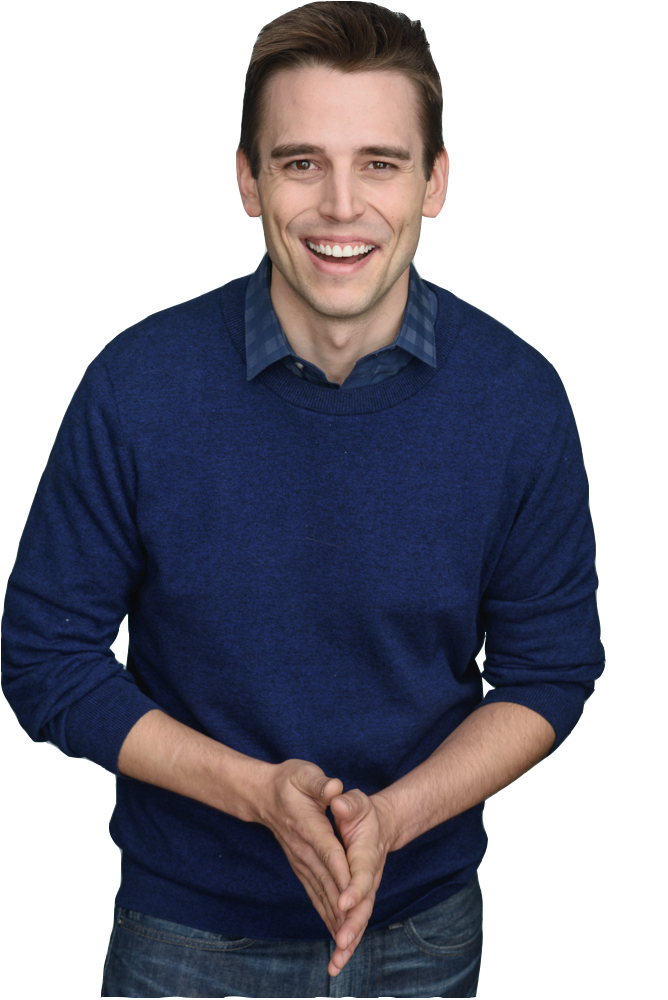
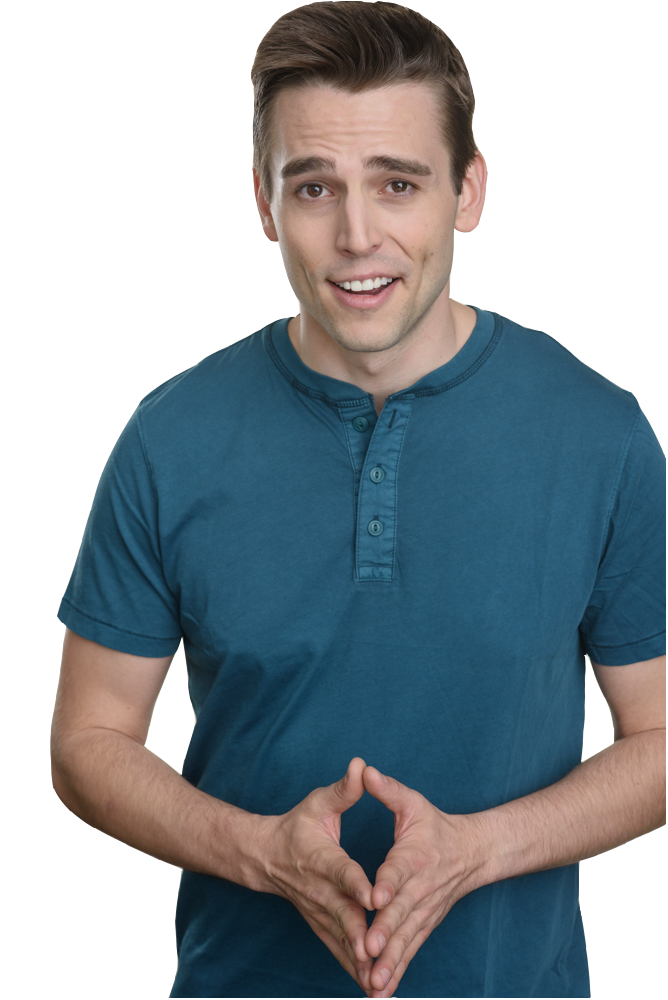
added photo to quote page, updated file names to reflect change, changed brutus' link to reflect live site

diff --git a/public/stylesheets/style.min.css b/public/stylesheets/style.min.css
@@ -1,1 +1,1 @@
-*{margin:0;padding:0;box-sizing:border-box}body{font:14px 'Montserrat', sans-serif}a{color:#555}p{font-weight:bold}.section{position:relative;overflow:hidden;padding-top:80px}nav{background:transparent;box-shadow:none;top:0}nav .nav-wrapper .container{width:100%}nav ul a{font-size:14px;text-transform:uppercase;font-weight:bold}nav ul a:hover{background-color:transparent;color:#f3997b}nav ul .selected{border-bottom:2px solid white}@media (max-width: 992px){nav .social-media{position:absolute;text-align:center}}nav .social-media img{box-sizing:border-box;width:13%;display:inline;padding:5px;margin:15px 0 0 0}@media (max-width: 992px){nav .social-media img{width:18%}}@media (max-width: 761px){nav .social-media img{width:16%}}@media (max-width: 600px){nav .social-media img{width:8%}}@media (max-width: 375px){nav .social-media img{width:10%}}.navbar-fixed{position:fixed;right:0;left:0;z-index:1030}.side-nav{width:100% !important;background-color:#f3997b}.side-nav li a{font-size:40px;line-height:70px;padding:50px 32px}#footer{background-color:#303030;min-height:100px}.scroll-down{position:absolute;left:calc(50% - 25px);right:auto;bottom:10px;z-index:99;font-size:14px;text-align:center;text-transform:uppercase;color:#fff;-webkit-transition:color .314s ease;transition:color .314s ease}#home{min-height:950px;background:#1e2230 url(../images/home-background.jpg) no-repeat center bottom}@media (min-width: 769px) and (max-width: 992px){#home{min-height:50vh}}@media (min-width: 674px) and (max-width: 768px){#home{min-height:75vh}}@media (max-width: 673px){#home{min-height:50vh}}@media (max-width: 375px){#home{min-height:45vh}}#home .jonathan-main{color:#fff}#home .jonathan-main h1{margin-top:50px;font-size:5vw}#home .jonathan-main h3{font-size:3vw}#home .jonathan-main h5{font-size:1.5vw}#home .jonathan-main hr{border:3px solid #fff;width:10vw;margin:0 auto}#home .home-img{padding-top:65px;min-height:500px;display:flex;align-items:center;justify-content:center}#home .home-img img{border:5px solid #fff;display:block;margin:0 auto;width:60%}#home .scroll-down{color:#fff}#home .scroll-down a{color:#fff}#home .scroll-down i{display:block}#home .ability-section{padding:150px 20px;margin:50px auto;left:0;right:0;position:absolute;background:#E63215;min-height:600px;width:75%;border:10px solid #000}#home .ability-section img{width:50%;border:10px solid #000}#home .ability-section span{font-size:24px;color:#fff;text-shadow:-1px -1px 0 #000, 1px -1px 0 #000, -1px 1px 0 #000, 1px 1px 0 #000}#bio{background:#F8F8F8;min-height:900px;color:#555}@media (min-width: 769px) and (max-width: 992px){#bio{min-height:50vh}}@media (min-width: 674px) and (max-width: 768px){#bio{min-height:75vh}}@media (max-width: 673px){#bio{min-height:50vh}}@media (max-width: 375px){#bio{min-height:45vh}}#bio h1{color:#555}#bio p{font-size:18px;line-height:1.5}#bio p span{font-weight:bold}#bio img{position:absolute;width:29vw;left:150px;bottom:-4px}@media (max-width: 1700px) and (min-width: 1601px){#bio img{width:35vw;left:150px}}@media (max-width: 1600px) and (min-width: 1581px){#bio img{width:32vw;left:150px}}@media (max-width: 1580px){#bio img{width:38vw;left:60px}}#bio .scroll-down{color:#555}#bio .scroll-down a{color:#555}#bio .scroll-down i{display:block}#social{background:#add3ce;min-height:740px}#social p{font-size:18px;line-height:1.5;color:#555}#social a{text-decoration:none}#social a span{color:#F25951}@media (min-width: 769px) and (max-width: 992px){#social{min-height:50vh}}@media (min-width: 674px) and (max-width: 768px){#social{min-height:75vh}}@media (max-width: 673px){#social{min-height:50vh}}@media (max-width: 375px){#social{min-height:45vh}}#social .scroll-down{color:#fff}#social .scroll-down a{color:#fff}#social .scroll-down i{display:block}#actor{background:#2f2f2f url(../images/host-background.jpg) no-repeat center top;background-size:cover;min-height:800px}@media (max-width: 992px){#actor{background-image:none;background-color:#2f2f2f}}@media (min-width: 769px) and (max-width: 992px){#actor{min-height:50vh}}@media (min-width: 674px) and (max-width: 768px){#actor{min-height:75vh}}@media (max-width: 673px){#actor{min-height:50vh}}@media (max-width: 375px){#actor{min-height:45vh}}#actor .actor-background{width:30%}#actor h3{color:#fff}#actor p{color:white;font-size:18px;line-height:1.5}#actor p span{display:inline-block;padding:0 0 0;font-weight:bold}#actor img{position:absolute;left:132px;bottom:-7px}@media (max-width: 1219px) and (min-width: 1024px){#actor img{width:40% !important;left:-21px}}@media (max-width: 1340px) and (min-width: 1220px){#actor img{position:absolute;left:109px}}@media (max-width: 1440px) and (min-width: 1341px){#actor img{position:absolute;left:117px}}@media (max-width: 1119px){#actor img{right:200%}}@media (max-width: 1201px){#actor img{width:40% !important;left:-22px}}@media (max-width: 992px){#actor img{display:none}}#actor .scroll-down{color:#fff}#actor .scroll-down a{color:#fff}#actor .scroll-down i{display:block}#actor-portfolio{background:#2f2f2f url(../images/actor-background-flipped.jpg) no-repeat center top}#actor-portfolio h2,#actor-portfolio h3{color:#fff}#actor-portfolio .carousel-slider{min-height:200px}#actor-portfolio .carousel-slider img{position:static}#actor-portfolio .carousel-slider .indicators .indicator-item{display:none}#actor-portfolio .hide-video-container{z-index:-1}#actor-portfolio .resume-list{line-height:1.5}#actor-portfolio .special-skill-list{border-top:0 !important}#actor-portfolio .collapsible{border-top:none;border-left:none;border-right:none;border-bottom:none;box-shadow:none}#actor-portfolio .collapsible-header{color:#fff;background-color:inherit;border-top:1px solid #ddd;border-bottom:none}#actor-portfolio .collapsible-header i{color:#3091ce}#actor-portfolio .collapsible-header-end{border-bottom:1px solid #ddd}#actor-portfolio .collapsible-body{color:#fff;border-top:1px solid #ddd}#actor-portfolio .casting-logos-flex{display:flex;justify-content:center;margin-bottom:50px}#actor-portfolio .casting-logos-flex .casting-logos img{width:45px;margin:0 10px;display:inline;position:static}@media (max-width: 375px){#actor-portfolio .casting-logos-flex .casting-logos img{width:41px}}#host{background:#f7bdaa url(../images/actor-background.jpg) no-repeat center top;background-size:cover;min-height:740px;color:#555}@media (min-width: 769px) and (max-width: 992px){#host{min-height:50vh}}@media (min-width: 674px) and (max-width: 768px){#host{min-height:75vh}}@media (max-width: 673px){#host{min-height:50vh}}@media (max-width: 375px){#host{min-height:45vh}}#host h1{color:#555}#host .carousel{width:550px;height:435px !important}#host .carousel img{width:50%}#host .carousel .indicators .indicator-item{display:none}#host p{font-size:18px;line-height:1.5}#host p span{font-weight:bold}#host .credits{margin-top:25px}#host .credits .collapsible{border-top:1px solid #555;border-left:0;border-right:0;box-shadow:none;margin:40px 0}#host .credits .collapsible-header{background-color:transparent;border-bottom:1px solid #555;text-align:center}#host .credits .collapsible-body{border-bottom:1px solid #555}#host #microman{position:absolute;margin-left:69px;left:-20px;bottom:-3px;width:29%}@media (max-width: 992px){#host #microman{display:none}}#host #microman-2{position:absolute;margin-right:69px;right:-30px;bottom:-66px;width:19%}@media (max-width: 992px){#host #microman-2{display:none}}#host .scroll-down{color:#555}#host .scroll-down a{color:#555}#host .scroll-down i{display:block}#production{background:#e5e5e5 url(../images/production-background.jpg) no-repeat center top;background-size:cover;min-height:740px}@media (min-width: 769px) and (max-width: 992px){#production{min-height:50vh}}@media (min-width: 674px) and (max-width: 768px){#production{min-height:75vh}}@media (max-width: 673px){#production{min-height:50vh}}@media (max-width: 375px){#production{min-height:45vh}}#production .photo-element{position:absolute}#production #camera{top:130px;right:0;z-index:10}@media (min-width: 1024px){#production #camera{right:-155px}}@media (max-width: 992px){#production #camera{display:none}}#production #cable{right:10%;bottom:-265px;z-index:11}@media (max-width: 992px){#production #cable{display:none}}#production #microphone{bottom:-175px;left:-100px;z-index:8}@media (min-width: 1024px){#production #microphone{left:-255px}}@media (max-width: 992px){#production #microphone{display:none}}#production .bmp-logo{width:55%;margin-bottom:25px;margin-top:65px}#production #bmp-bio p{padding:0 19px;color:#737373;font-size:18px;line-height:1.5}@media (max-width: 992px){#production #bmp-bio p{padding:0}}#production .clip-list li{font-family:'Fontdiner Swanky', cursive;position:relative;background-color:#3091ce;border:2px solid #737373;padding:20px 0;margin:0 0 10px;z-index:10;color:#fff;font-size:18px}#production .collapsible-header{background-color:inherit;border-top:1px solid #ddd}#production .collapsible-header i{color:#3091ce}#production #equipment-rental{padding:0 40px;color:#737373}#production #equipment-rental .equipment-list li{text-align:left;line-height:1.5}#production #bmp-contact{margin-top:30px;margin-bottom:50px;color:#737373}#production #bmp-contact p{font-size:18px}#production #bmp-contact a{color:#3091ce}#production .scroll-down{color:#555}#production .scroll-down a{color:#555}#production .scroll-down i{display:block}#quote{background-color:#D7D5E6;min-height:740px}@media (min-width: 769px) and (max-width: 992px){#quote{min-height:50vh}}@media (min-width: 674px) and (max-width: 768px){#quote{min-height:75vh}}@media (max-width: 673px){#quote{min-height:50vh}}@media (max-width: 375px){#quote{min-height:45vh}}#quote h1{color:#555}#quote img{width:25vw;position:absolute;bottom:-4px;right:90px}@media (max-width: 1700px) and (min-width: 1601px){#quote img{width:24vw;right:150px}}@media (max-width: 1600px) and (min-width: 1581px){#quote img{width:25vw;right:150px}}@media (max-width: 1580px){#quote img{width:28vw;right:170px}}@media (max-width: 992px){#quote img{display:none}}#quote .quote-paragraph{line-height:2.0;text-align:left;padding:0 40px;font-size:2.5vw;line-height:1.5;color:#555}#quote .quote-paragraph span{font-weight:100}#quote .quote-paragraph span .quote{margin-right:30px}#quote .scroll-down{color:#555}#quote .scroll-down a{color:#555}#quote .scroll-down i{display:block}#contact{background:#9a9a9a;min-height:925px}@media (min-width: 769px) and (max-width: 992px){#contact{min-height:50vh}}@media (min-width: 674px) and (max-width: 768px){#contact{min-height:75vh}}@media (max-width: 673px){#contact{min-height:50vh}}@media (max-width: 375px){#contact{min-height:45vh}}#contact h5{color:#434343;font-weight:bold}#contact img{width:20vw;margin:0 auto;display:block}#contact .contact-img{width:32%;position:absolute;bottom:-3px;left:-29px}@media (max-width: 1770) and (min-width: 1561px){#contact .contact-img{width:35%}}@media (max-width: 1560) and (min-width: 1388px){#contact .contact-img{width:39%}}@media (max-width: 1024px) and (min-width: 993px){#contact .contact-img{width:45%}}@media (max-width: 992px){#contact .contact-img{display:none}}#contact .contact-header{font-size:9em;color:#434343}@media (min-width: 769px){#contact .contact-header{font-size:6.5em}}@media (max-width: 768px){#contact .contact-header{font-size:6em}}@media (max-width: 505px){#contact .contact-header{font-size:3.5em}}@media (max-width: 425px){#contact .contact-header{font-size:3em}}#contact .contact-items .commercial-logo{border:4px solid #555}#contact .contact-items i{color:#434343;font-size:4em}#contact .contact-items span{font-size:18px;color:#fff;padding-top:10px;display:block}#contact input:not([type]),#contact input[type=text],#contact input[type=password],#contact input[type=email],#contact input[type=url],#contact input[type=time],#contact input[type=date],#contact input[type=datetime],#contact input[type=datetime-local],#contact input[type=tel],#contact input[type=number],#contact input[type=search],#contact textarea.materialize-textarea{border-bottom:1px solid #434343}#contact .input-field label{color:#434343}#contact input::-webkit-input-placeholder{color:#434343 !important}#contact input:-moz-placeholder{color:#434343 !important}#contact input::-moz-placeholder{color:#434343 !important}#contact input:-ms-input-placeholder{color:#434343 !important}#contact .input-field input[type=text]:focus+label{color:#555}#contact .input-field input[type=text]:focus{border-bottom:1px solid #555;box-shadow:0 1px 0 0 #555}#contact .scroll-down{color:#555}#contact .scroll-down a{color:#555}#contact .scroll-down i{display:block}#featured-modal{height:800px}#featured-modal .carousel.carousel-slider{min-height:690px}#featured-modal .carousel.carousel-slider .video-container{margin:45px 0}#featured-modal .carousel .indicators .indicator-item.active{background-color:#3091ce !important}#featured-modal .carousel .indicators .indicator-item{background-color:#b9b9b9 !important}#seasonOne-modal,#seasonTwo-modal{height:500px}#seasonOne-modal .carousel.carousel-slider,#seasonTwo-modal .carousel.carousel-slider{min-height:380px}#seasonOne-modal .carousel.carousel-slider .video-container,#seasonTwo-modal .carousel.carousel-slider .video-container{margin:45px 0}#seasonOne-modal .carousel .indicators .indicator-item.active,#seasonTwo-modal .carousel .indicators .indicator-item.active{background-color:#3091ce !important}#seasonOne-modal .carousel .indicators .indicator-item,#seasonTwo-modal .carousel .indicators .indicator-item{background-color:#b9b9b9 !important}#equipment-modal .bmp-logo{display:block;width:45%;margin:25px auto}.modal i{color:#3091ce}.flex-container{display:flex;justify-content:center}
+*{margin:0;padding:0;box-sizing:border-box}body{font:14px 'Montserrat', sans-serif}a{color:#555}p{font-weight:bold}.section{position:relative;overflow:hidden;padding-top:80px}nav{background:transparent;box-shadow:none;top:0}nav .nav-wrapper .container{width:100%}nav ul a{font-size:14px;text-transform:uppercase;font-weight:bold}nav ul a:hover{background-color:transparent;color:#f3997b}nav ul .selected{border-bottom:2px solid white}@media (max-width: 992px){nav .social-media{position:absolute;text-align:center}}nav .social-media img{box-sizing:border-box;width:13%;display:inline;padding:5px;margin:15px 0 0 0}@media (max-width: 992px){nav .social-media img{width:18%}}@media (max-width: 761px){nav .social-media img{width:16%}}@media (max-width: 600px){nav .social-media img{width:8%}}@media (max-width: 375px){nav .social-media img{width:10%}}.navbar-fixed{position:fixed;right:0;left:0;z-index:1030}.side-nav{width:100% !important;background-color:#f3997b}.side-nav li a{font-size:40px;line-height:70px;padding:50px 32px}#footer{background-color:#303030;min-height:100px}.scroll-down{position:absolute;left:calc(50% - 25px);right:auto;bottom:10px;z-index:99;font-size:14px;text-align:center;text-transform:uppercase;color:#fff;-webkit-transition:color .314s ease;transition:color .314s ease}#home{min-height:950px;background:#1e2230 url(../images/home-background.jpg) no-repeat center bottom}@media (min-width: 769px) and (max-width: 992px){#home{min-height:50vh}}@media (min-width: 674px) and (max-width: 768px){#home{min-height:75vh}}@media (max-width: 673px){#home{min-height:50vh}}@media (max-width: 375px){#home{min-height:45vh}}#home .jonathan-main{color:#fff}#home .jonathan-main h1{margin-top:50px;font-size:5vw}#home .jonathan-main h3{font-size:3vw}#home .jonathan-main h5{font-size:1.5vw}#home .jonathan-main hr{border:3px solid #fff;width:10vw;margin:0 auto}#home .home-img{padding-top:65px;min-height:500px;display:flex;align-items:center;justify-content:center}#home .home-img img{border:5px solid #fff;display:block;margin:0 auto;width:60%}#home .scroll-down{color:#fff}#home .scroll-down a{color:#fff}#home .scroll-down i{display:block}#home .ability-section{padding:150px 20px;margin:50px auto;left:0;right:0;position:absolute;background:#E63215;min-height:600px;width:75%;border:10px solid #000}#home .ability-section img{width:50%;border:10px solid #000}#home .ability-section span{font-size:24px;color:#fff;text-shadow:-1px -1px 0 #000, 1px -1px 0 #000, -1px 1px 0 #000, 1px 1px 0 #000}#bio{background:#F8F8F8;min-height:900px;color:#555}@media (min-width: 769px) and (max-width: 992px){#bio{min-height:50vh}}@media (min-width: 674px) and (max-width: 768px){#bio{min-height:75vh}}@media (max-width: 673px){#bio{min-height:50vh}}@media (max-width: 375px){#bio{min-height:45vh}}#bio h1{color:#555}#bio p{font-size:18px;line-height:1.5}#bio p span{font-weight:bold}#bio img{position:absolute;width:29vw;left:150px;bottom:-4px}@media (max-width: 1700px) and (min-width: 1601px){#bio img{width:35vw;left:150px}}@media (max-width: 1600px) and (min-width: 1581px){#bio img{width:32vw;left:150px}}@media (max-width: 1580px){#bio img{width:38vw;left:60px}}#bio .scroll-down{color:#555}#bio .scroll-down a{color:#555}#bio .scroll-down i{display:block}#social{background:#add3ce;min-height:740px}#social p{font-size:18px;line-height:1.5;color:#555}#social a{text-decoration:none}#social a span{color:#F25951}@media (min-width: 769px) and (max-width: 992px){#social{min-height:50vh}}@media (min-width: 674px) and (max-width: 768px){#social{min-height:75vh}}@media (max-width: 673px){#social{min-height:50vh}}@media (max-width: 375px){#social{min-height:45vh}}#social .scroll-down{color:#fff}#social .scroll-down a{color:#fff}#social .scroll-down i{display:block}#actor{background:#2f2f2f url(../images/host-background.jpg) no-repeat center top;background-size:cover;min-height:800px}@media (max-width: 992px){#actor{background-image:none;background-color:#2f2f2f}}@media (min-width: 769px) and (max-width: 992px){#actor{min-height:50vh}}@media (min-width: 674px) and (max-width: 768px){#actor{min-height:75vh}}@media (max-width: 673px){#actor{min-height:50vh}}@media (max-width: 375px){#actor{min-height:45vh}}#actor .actor-background{width:30%}#actor h3{color:#fff}#actor p{color:white;font-size:18px;line-height:1.5}#actor p span{display:inline-block;padding:0 0 0;font-weight:bold}#actor img{position:absolute;left:132px;bottom:-7px}@media (max-width: 1219px) and (min-width: 1024px){#actor img{width:40% !important;left:-21px}}@media (max-width: 1340px) and (min-width: 1220px){#actor img{position:absolute;left:109px}}@media (max-width: 1440px) and (min-width: 1341px){#actor img{position:absolute;left:117px}}@media (max-width: 1119px){#actor img{right:200%}}@media (max-width: 1201px){#actor img{width:40% !important;left:-22px}}@media (max-width: 992px){#actor img{display:none}}#actor .scroll-down{color:#fff}#actor .scroll-down a{color:#fff}#actor .scroll-down i{display:block}#actor-portfolio{background:#2f2f2f url(../images/actor-background-flipped.jpg) no-repeat center top}#actor-portfolio h2,#actor-portfolio h3{color:#fff}#actor-portfolio .carousel-slider{min-height:200px}#actor-portfolio .carousel-slider img{position:static}#actor-portfolio .carousel-slider .indicators .indicator-item{display:none}#actor-portfolio .hide-video-container{z-index:-1}#actor-portfolio .resume-list{line-height:1.5}#actor-portfolio .special-skill-list{border-top:0 !important}#actor-portfolio .collapsible{border-top:none;border-left:none;border-right:none;border-bottom:none;box-shadow:none}#actor-portfolio .collapsible-header{color:#fff;background-color:inherit;border-top:1px solid #ddd;border-bottom:none}#actor-portfolio .collapsible-header i{color:#3091ce}#actor-portfolio .collapsible-header-end{border-bottom:1px solid #ddd}#actor-portfolio .collapsible-body{color:#fff;border-top:1px solid #ddd}#actor-portfolio .casting-logos-flex{display:flex;justify-content:center;margin-bottom:50px}#actor-portfolio .casting-logos-flex .casting-logos img{width:45px;margin:0 10px;display:inline;position:static}@media (max-width: 375px){#actor-portfolio .casting-logos-flex .casting-logos img{width:41px}}#host{background:#f7bdaa url(../images/actor-background.jpg) no-repeat center top;background-size:cover;min-height:740px;color:#555}@media (min-width: 769px) and (max-width: 992px){#host{min-height:50vh}}@media (min-width: 674px) and (max-width: 768px){#host{min-height:75vh}}@media (max-width: 673px){#host{min-height:50vh}}@media (max-width: 375px){#host{min-height:45vh}}#host h1{color:#555}#host .carousel{width:550px;height:435px !important}#host .carousel img{width:50%}#host .carousel .indicators .indicator-item{display:none}#host p{font-size:18px;line-height:1.5}#host p span{font-weight:bold}#host .credits{margin-top:25px}#host .credits .collapsible{border-top:1px solid #555;border-left:0;border-right:0;box-shadow:none;margin:40px 0}#host .credits .collapsible-header{background-color:transparent;border-bottom:1px solid #555;text-align:center}#host .credits .collapsible-body{border-bottom:1px solid #555}#host #microman{position:absolute;margin-left:69px;left:-20px;bottom:-3px;width:29%}@media (max-width: 992px){#host #microman{display:none}}#host #microman-2{position:absolute;margin-right:69px;right:-30px;bottom:-66px;width:19%}@media (max-width: 992px){#host #microman-2{display:none}}#host .scroll-down{color:#555}#host .scroll-down a{color:#555}#host .scroll-down i{display:block}#production{background:#e5e5e5 url(../images/production-background.jpg) no-repeat center top;background-size:cover;min-height:740px}@media (min-width: 769px) and (max-width: 992px){#production{min-height:50vh}}@media (min-width: 674px) and (max-width: 768px){#production{min-height:75vh}}@media (max-width: 673px){#production{min-height:50vh}}@media (max-width: 375px){#production{min-height:45vh}}#production .photo-element{position:absolute}#production #camera{top:130px;right:0;z-index:10}@media (min-width: 1024px){#production #camera{right:-155px}}@media (max-width: 992px){#production #camera{display:none}}#production #cable{right:10%;bottom:-265px;z-index:11}@media (max-width: 992px){#production #cable{display:none}}#production #microphone{bottom:-175px;left:-100px;z-index:8}@media (min-width: 1024px){#production #microphone{left:-255px}}@media (max-width: 992px){#production #microphone{display:none}}#production .bmp-logo{width:55%;margin-bottom:25px;margin-top:65px}#production #bmp-bio p{padding:0 19px;color:#737373;font-size:18px;line-height:1.5}@media (max-width: 992px){#production #bmp-bio p{padding:0}}#production .clip-list li{font-family:'Fontdiner Swanky', cursive;position:relative;background-color:#3091ce;border:2px solid #737373;padding:20px 0;margin:0 0 10px;z-index:10;color:#fff;font-size:18px}#production .collapsible-header{background-color:inherit;border-top:1px solid #ddd}#production .collapsible-header i{color:#3091ce}#production #equipment-rental{padding:0 40px;color:#737373}#production #equipment-rental .equipment-list li{text-align:left;line-height:1.5}#production #bmp-contact{margin-top:30px;margin-bottom:50px;color:#737373}#production #bmp-contact p{font-size:18px}#production #bmp-contact a{color:#3091ce}#production .scroll-down{color:#555}#production .scroll-down a{color:#555}#production .scroll-down i{display:block}#quote{background-color:#D7D5E6;min-height:740px}@media (min-width: 769px) and (max-width: 992px){#quote{min-height:50vh}}@media (min-width: 674px) and (max-width: 768px){#quote{min-height:75vh}}@media (max-width: 673px){#quote{min-height:50vh}}@media (max-width: 375px){#quote{min-height:45vh}}#quote h1{color:#555}#quote img{width:25vw;position:absolute;bottom:-4px;right:0}@media (max-width: 1700px) and (min-width: 1601px){#quote img{width:24vw;right:150px}}@media (max-width: 1600px) and (min-width: 1581px){#quote img{width:25vw;right:150px}}@media (max-width: 1580px){#quote img{width:28vw;right:170px}}@media (max-width: 992px){#quote img{display:none}}#quote .quote-paragraph{line-height:2.0;text-align:left;padding:0 40px;font-size:2.5vw;line-height:1.5;color:#555}#quote .quote-paragraph span{font-weight:100}#quote .quote-paragraph span .quote{margin-right:30px}#quote .scroll-down{color:#555}#quote .scroll-down a{color:#555}#quote .scroll-down i{display:block}#contact{background:#9a9a9a;min-height:925px}@media (min-width: 769px) and (max-width: 992px){#contact{min-height:50vh}}@media (min-width: 674px) and (max-width: 768px){#contact{min-height:75vh}}@media (max-width: 673px){#contact{min-height:50vh}}@media (max-width: 375px){#contact{min-height:45vh}}#contact h5{color:#434343;font-weight:bold}#contact img{width:20vw;margin:0 auto;display:block}#contact .contact-img{width:32%;position:absolute;bottom:-3px;left:-29px}@media (max-width: 1770) and (min-width: 1561px){#contact .contact-img{width:35%}}@media (max-width: 1560) and (min-width: 1388px){#contact .contact-img{width:39%}}@media (max-width: 1024px) and (min-width: 993px){#contact .contact-img{width:45%}}@media (max-width: 992px){#contact .contact-img{display:none}}#contact .contact-header{font-size:9em;color:#434343}@media (min-width: 769px){#contact .contact-header{font-size:6.5em}}@media (max-width: 768px){#contact .contact-header{font-size:6em}}@media (max-width: 505px){#contact .contact-header{font-size:3.5em}}@media (max-width: 425px){#contact .contact-header{font-size:3em}}#contact .contact-items .commercial-logo{border:4px solid #555}#contact .contact-items i{color:#434343;font-size:4em}#contact .contact-items span{font-size:18px;color:#fff;padding-top:10px;display:block}#contact input:not([type]),#contact input[type=text],#contact input[type=password],#contact input[type=email],#contact input[type=url],#contact input[type=time],#contact input[type=date],#contact input[type=datetime],#contact input[type=datetime-local],#contact input[type=tel],#contact input[type=number],#contact input[type=search],#contact textarea.materialize-textarea{border-bottom:1px solid #434343}#contact .input-field label{color:#434343}#contact input::-webkit-input-placeholder{color:#434343 !important}#contact input:-moz-placeholder{color:#434343 !important}#contact input::-moz-placeholder{color:#434343 !important}#contact input:-ms-input-placeholder{color:#434343 !important}#contact .input-field input[type=text]:focus+label{color:#555}#contact .input-field input[type=text]:focus{border-bottom:1px solid #555;box-shadow:0 1px 0 0 #555}#contact .scroll-down{color:#555}#contact .scroll-down a{color:#555}#contact .scroll-down i{display:block}#featured-modal{height:800px}#featured-modal .carousel.carousel-slider{min-height:690px}#featured-modal .carousel.carousel-slider .video-container{margin:45px 0}#featured-modal .carousel .indicators .indicator-item.active{background-color:#3091ce !important}#featured-modal .carousel .indicators .indicator-item{background-color:#b9b9b9 !important}#seasonOne-modal,#seasonTwo-modal{height:500px}#seasonOne-modal .carousel.carousel-slider,#seasonTwo-modal .carousel.carousel-slider{min-height:380px}#seasonOne-modal .carousel.carousel-slider .video-container,#seasonTwo-modal .carousel.carousel-slider .video-container{margin:45px 0}#seasonOne-modal .carousel .indicators .indicator-item.active,#seasonTwo-modal .carousel .indicators .indicator-item.active{background-color:#3091ce !important}#seasonOne-modal .carousel .indicators .indicator-item,#seasonTwo-modal .carousel .indicators .indicator-item{background-color:#b9b9b9 !important}#equipment-modal .bmp-logo{display:block;width:45%;margin:25px auto}.modal i{color:#3091ce}.flex-container{display:flex;justify-content:center}

diff --git a/public/stylesheets/style.scss b/public/stylesheets/style.scss
@@ -821,7 +821,7 @@ nav {
     width: 25vw;
     position: absolute;
     bottom: -4px;
-    right: 90px;
+    right: 0;
 
     @media (max-width: 1700px) and (min-width: 1601px){
       width: 24vw;
